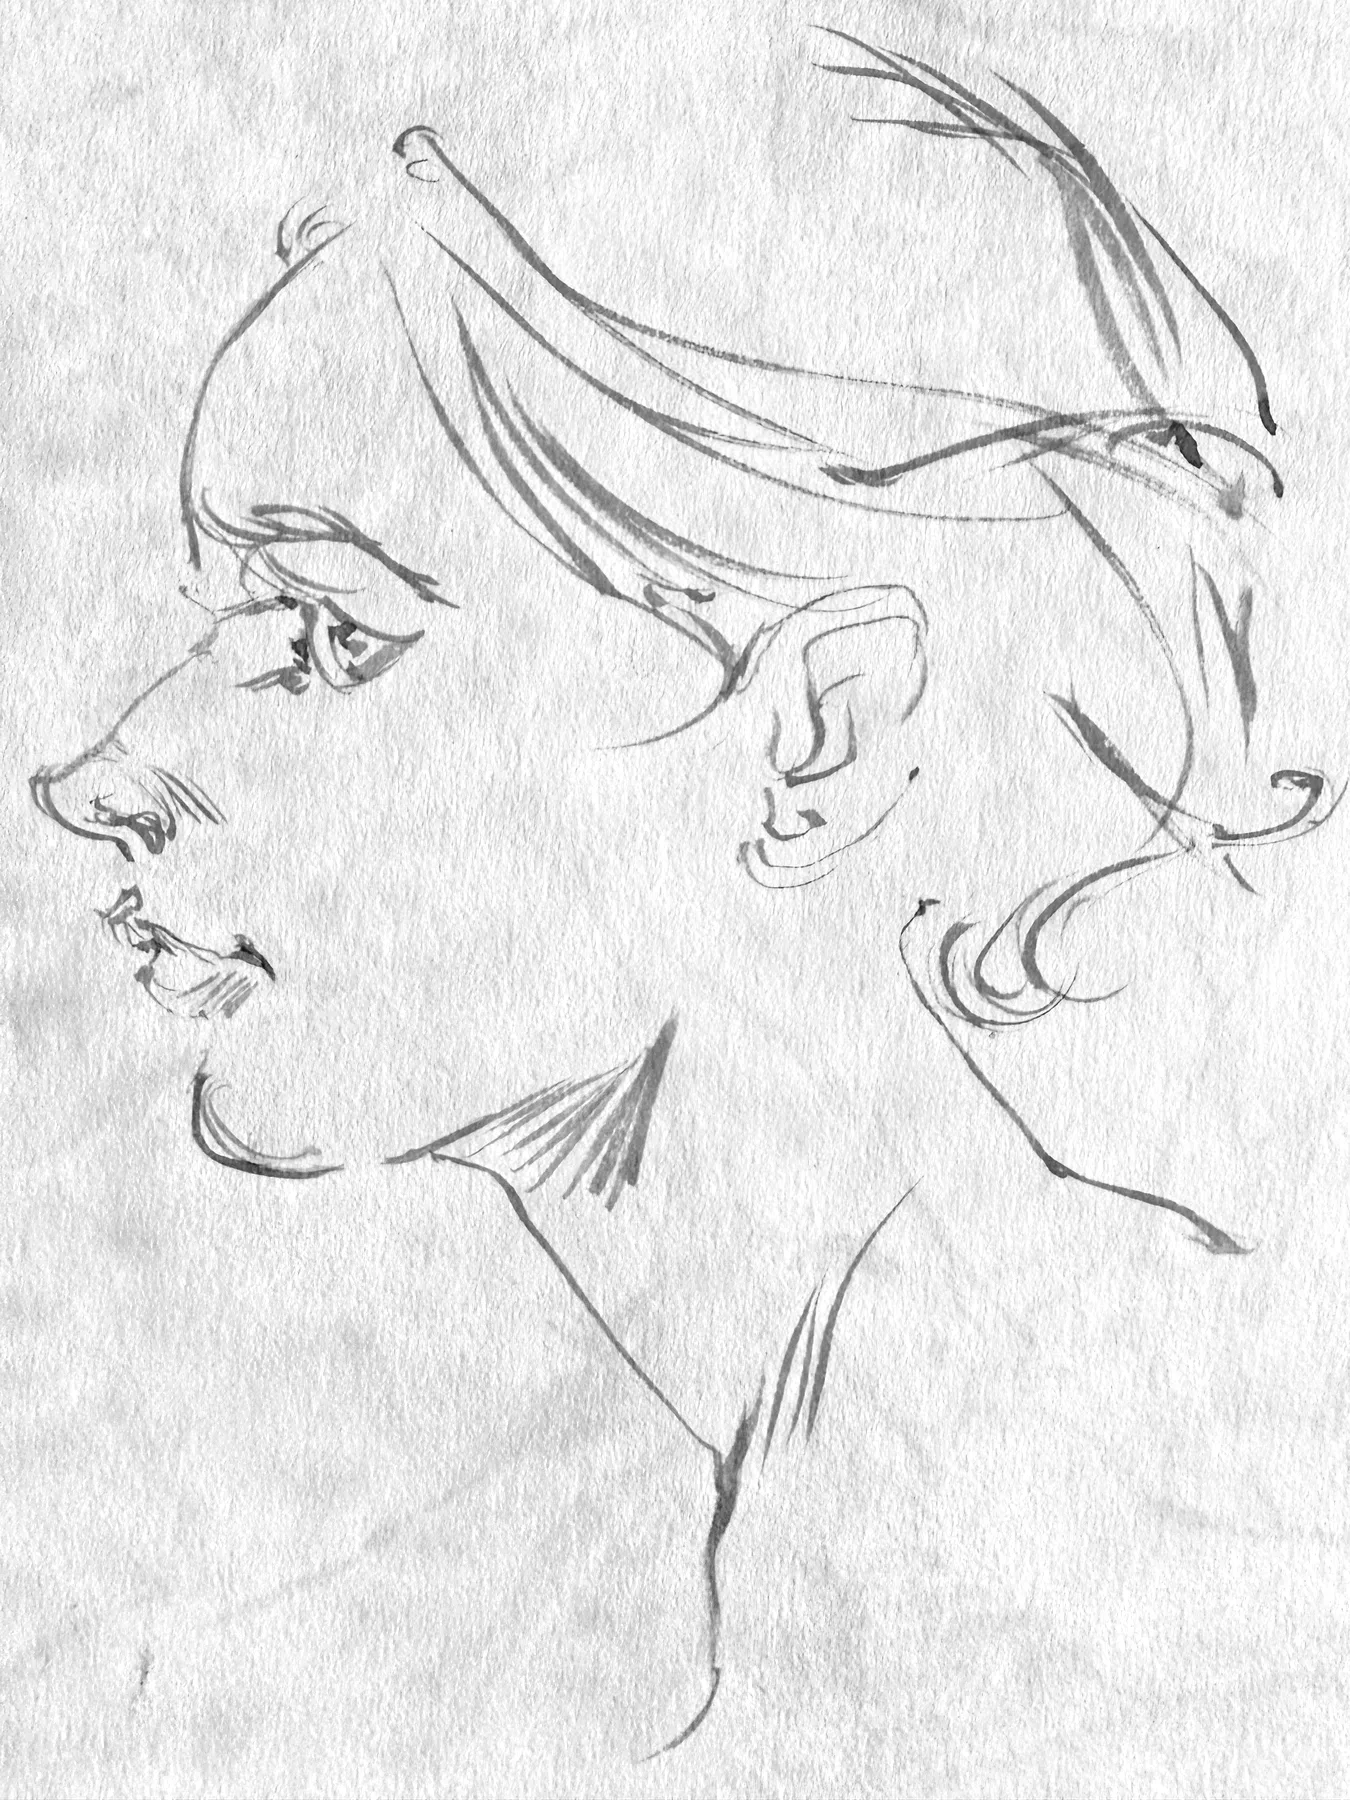
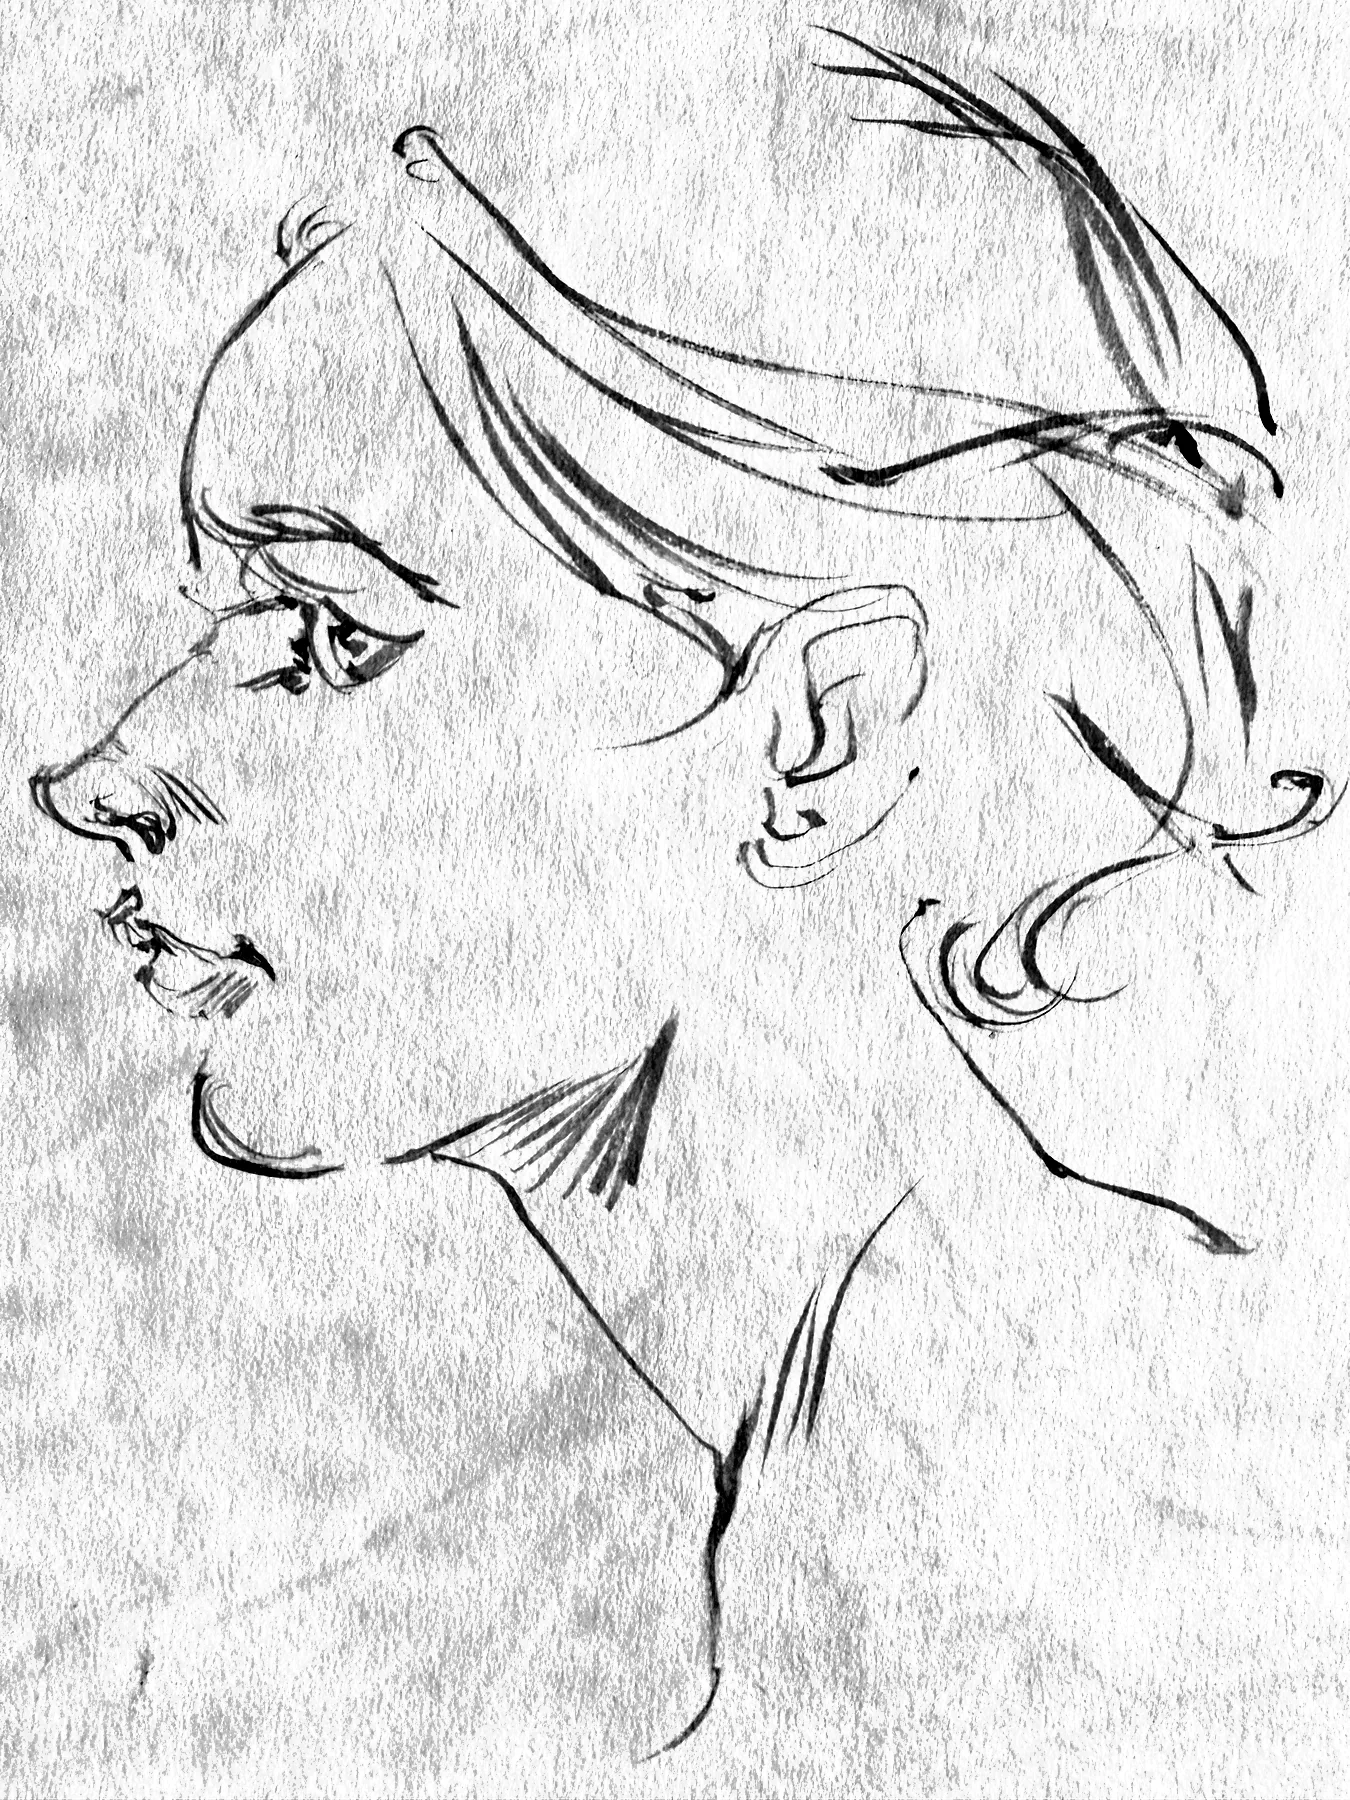
Neutralize yellow paper grade on ink portraits.
White-balance before greyscale, replace sharp 1-channel normalize (it banded) with a manual levels stretch, and reprocess Profile study and Bird and profile.

diff --git a/docs/plate-pipeline.md b/docs/plate-pipeline.md
@@ -34,7 +34,7 @@ Both `npm run plate` and `npm run art` call the same processor: [`scripts/lib/pr
 photo (jpg / png / heic…)
         │
         ▼
-  EXIF rotate → (greyscale unless --color) → resize (max edge 1800)
+  EXIF rotate → white-balance paper → (greyscale unless --color) → resize
         │
         ▼
   Flatten uneven lighting
@@ -42,7 +42,7 @@ photo (jpg / png / heic…)
         │
         ▼
   Percentile normalize (paper → white, ink → black)
-  greyscale uses a slightly brighter clip
+  ink plates get an extra paper lift so grey doesn't read as cream
         │
         ▼
   WebP (q≈82) → public/art/<slug>.webp
@@ -52,9 +52,9 @@ photo (jpg / png / heic…)
                  including color: true|false
 ```
 
-### 1. Orient, optional greyscale, resize
+### 1. Orient, white-balance, optional greyscale, resize
 
-`sharp` applies EXIF orientation, optionally converts to greyscale, and fits the long edge into 1800px.
+`sharp` applies EXIF orientation. Phone photos of cream paper get a quick **white-balance** (scale channels so the bright paper percentile is neutral) before greyscale, so yellow grading does not stick around. Color plates keep hue after the same neutral paper step.
 
 HEIC from iPhones is converted with macOS `sips` first (sharp does not decode HEIC).
 
@@ -67,11 +67,11 @@ Instead the pipeline estimates the *paper* as a slowly varying field:
 1. Split the image into coarse blocks (~1/40 of the short edge).
 2. In each block, take the **local maximum** (brightest channel when color) — ink/wash is darker than paper, so that response tracks illumination.
 3. Upsample that field with **bilinear** interpolation from block centers.
-4. Divide by this field and rescale toward a paper reference (~252 for ink, ~245 for color).
+4. Divide by this field and rescale toward a paper reference (~254 for ink, ~245 for color).
 
 ### 3. Stretch levels
 
-A percentile normalize maps darkest ink → near black and paper → near white. Ink plates use a slightly lower upper percentile so the page reads a bit brighter on the Feed.
+A percentile normalize maps darkest ink → near black and paper → near white. Ink plates then get a soft lift on the bright end so remaining grey paper reads clean against the site’s white field.
 
 ### 4. Encode + write content
 
